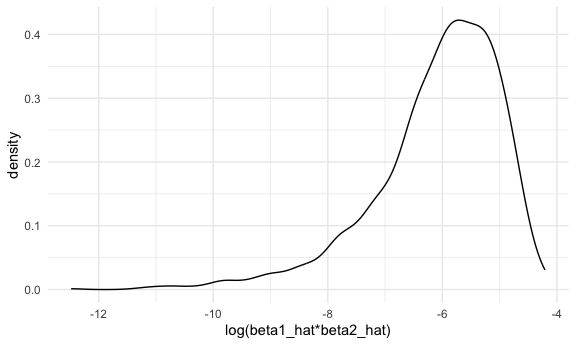
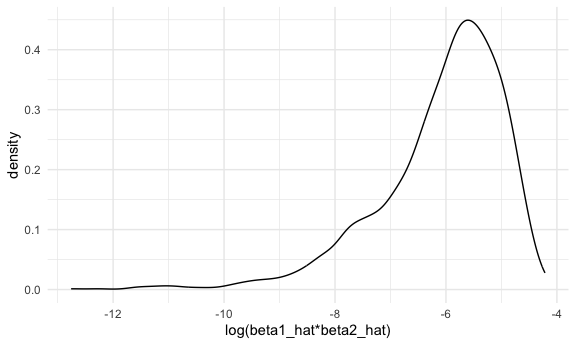
problem 3: fit my model based on my hypothesis and a simple data-driven model-building process.

diff --git a/p8105_hw6_sp4170.md b/p8105_hw6_sp4170.md
@@ -87,6 +87,32 @@ boot_result_para =
     ## Caused by warning in `log()`:
     ## ! NaNs produced
 
+``` r
+# or this method????
+
+boot_result_para =
+  bootstrap(weather_df, 5000, id = "strap_number") |> 
+  mutate(
+    model = map(strap, \(df) lm(tmax ~ tmin + prcp, data = df)),
+    result_para = map(model, broom::tidy)
+  ) |> 
+  select(strap_number, result_para) |> 
+  unnest(result_para) |> 
+  select(strap_number, term, estimate) |> 
+  pivot_wider(
+    names_from = term,
+    values_from = estimate
+  ) |> 
+  mutate(
+    log_b1b2 = log(tmin * prcp)
+  )
+```
+
+    ## Warning: There was 1 warning in `mutate()`.
+    ## ℹ In argument: `log_b1b2 = log(tmin * prcp)`.
+    ## Caused by warning in `log()`:
+    ## ! NaNs produced
+
 ### draw a density plot for log(beta1_hat\*beta2_hat) distribution
 
 ``` r
@@ -95,7 +121,7 @@ boot_result_para |>
   labs(x = "log(beta1_hat*beta2_hat)")
 ```
 
-    ## Warning: Removed 3361 rows containing non-finite values (`stat_density()`).
+    ## Warning: Removed 3304 rows containing non-finite values (`stat_density()`).
 
 <img src="p8105_hw6_sp4170_files/figure-gfm/unnamed-chunk-5-1.png" width="90%" />
 descriptions:
@@ -109,6 +135,8 @@ descriptions:
   negative, so we cannot calculate the log of them. in this case, this
   part of data is removed when we draw the density plot for estimated
   log(beta1_hat x beta2_hat).
+  - for more details, 1696 out of 5000 rows are used when drawing the
+    plot.
 
 ### calculate 95%CI for r^2 estimates
 
@@ -125,7 +153,7 @@ boot_result_para |>
 
 - based on the output, we can tell the 95% confidence interval for
   log(beta1_hat x beta2_hat), which i use 2.5% and 97.5% quantiles to
-  get, is from -8.9815594 to -4.6016727
+  get, is from -8.8847595 to -4.6039854
 
 ## question 2: r^2
 
@@ -178,3 +206,161 @@ boot_result_r2 |>
 - based on the output, we can tell the 95% confidence interval for r^2,
   which i use 2.5% and 97.5% quantiles to get, is from 0.8885495 to
   0.9406812
+- since the 95%CI is not wide and with relatively large value, we might
+  say the model can make good prediction when we do bootstrap to infer
+  r^2
+
+# Problem 3
+
+## data import, clean, and mutate
+
+``` r
+bw_df = 
+  read_csv("data/birthweight.csv") |> 
+  janitor::clean_names() |> 
+  mutate(
+    babysex = factor(babysex, levels = c(1,2), labels = c("male", "female")),
+    malform = case_when(malform == 0 ~ "absent", malform == 1 ~ "present"),
+    mrace = factor(mrace, levels = c(1,2,3,4,8), labels = c("White", "Black", "Asian", "Puerto Rican", "Other")),
+    frace = factor(frace, levels = c(1,2,3,4,8,9), labels = c("White", "Black", "Asian", "Puerto Rican", "Other", "Unknow"))
+  ) |> 
+  drop_na(bwt)
+```
+
+    ## Rows: 4342 Columns: 20
+    ## ── Column specification ────────────────────────────────────────────────────────
+    ## Delimiter: ","
+    ## dbl (20): babysex, bhead, blength, bwt, delwt, fincome, frace, gaweeks, malf...
+    ## 
+    ## ℹ Use `spec()` to retrieve the full column specification for this data.
+    ## ℹ Specify the column types or set `show_col_types = FALSE` to quiet this message.
+
+``` r
+colSums(is.na(bw_df))
+```
+
+    ##  babysex    bhead  blength      bwt    delwt  fincome    frace  gaweeks 
+    ##        0        0        0        0        0        0        0        0 
+    ##  malform menarche  mheight   momage    mrace   parity  pnumlbw  pnumsga 
+    ##        0        0        0        0        0        0        0        0 
+    ##    ppbmi     ppwt   smoken   wtgain 
+    ##        0        0        0        0
+
+- i import the data, clean the names, and mutate my interested columns
+  for further steps. I drop NULL in bwt column as this is our response
+  variable. then, i check the missing value in other columns, and find
+  that there are no missing data.
+
+## fit my model
+
+- step 1
+  - from my opinion, i suppose the main effect of (1) presence of
+    malformations that could affect weight (malform), (2) mother’s race
+    (mrace), (3) father’s race (frace), (4) average number of cigarettes
+    smoked per day during pregnancy (smoken), and (5) gestational age in
+    weeks (gaweeks), will affect the baby’s birth weight. therefore, i
+    fit a mixed linear regression model `fit`
+  - but i find that the r^2 is pretty low, so i decide to add a new
+    covariant.
+- step 2
+  - i decide to add one more covariant (6) baby’s length at birth
+    (blength) into the model `fit`
+  - r^2 greatly increase, so i decide to keep variable `blength` into my
+    mode.
+- step 3
+  - based on step 2 parameter estimates output, i find that the variable
+    `malform` is not significant. so, i remove it from the model, and
+    find that the r^2 does not change. To keep my model less complex, i
+    decide to remove the variable `malform`, and here it comes my final
+    model: `bwt ~ mrace + frace + smoken + gaweeks + blength`
+
+``` r
+fit = lm(bwt ~ malform + mrace + frace + smoken + gaweeks, data = bw_df)
+
+broom::tidy(fit) |> knitr::kable()
+```
+
+| term              |   estimate |   std.error |   statistic |   p.value |
+|:------------------|-----------:|------------:|------------:|----------:|
+| (Intercept)       |  946.73658 |  88.1469618 |  10.7404335 | 0.0000000 |
+| malformpresent    |   10.84055 | 115.3598051 |   0.0939716 | 0.9251361 |
+| mraceBlack        | -239.04844 |  75.1246311 |  -3.1820247 | 0.0014728 |
+| mraceAsian        | -164.06515 | 117.0980037 |  -1.4010927 | 0.1612580 |
+| mracePuerto Rican | -142.99483 |  73.3359175 |  -1.9498608 | 0.0512572 |
+| fraceBlack        |  -48.32241 |  75.1805885 |  -0.6427512 | 0.5204196 |
+| fraceAsian        |  -14.48946 | 113.2159189 |  -0.1279807 | 0.8981702 |
+| fracePuerto Rican |  -53.74218 |  72.9345023 |  -0.7368554 | 0.4612502 |
+| fraceOther        |  -11.34893 | 120.9308651 |  -0.0938464 | 0.9252355 |
+| smoken            |  -10.91868 |   0.9463709 | -11.5374233 | 0.0000000 |
+| gaweeks           |   59.65934 |   2.1830308 |  27.3286770 | 0.0000000 |
+
+``` r
+broom::glance(fit)
+```
+
+    ## # A tibble: 1 × 12
+    ##   r.squared adj.r.squared sigma statistic   p.value    df  logLik    AIC    BIC
+    ##       <dbl>         <dbl> <dbl>     <dbl>     <dbl> <dbl>   <dbl>  <dbl>  <dbl>
+    ## 1     0.245         0.243  446.      140. 4.25e-255    10 -32639. 65303. 65379.
+    ## # ℹ 3 more variables: deviance <dbl>, df.residual <int>, nobs <int>
+
+``` r
+fit = lm(bwt ~ malform + mrace + frace + smoken + gaweeks + blength, data = bw_df)
+
+broom::tidy(fit) |> knitr::kable()
+```
+
+| term              |     estimate |  std.error |   statistic |   p.value |
+|:------------------|-------------:|-----------:|------------:|----------:|
+| (Intercept)       | -3842.222462 | 99.8225217 | -38.4905370 | 0.0000000 |
+| malformpresent    |    54.585220 | 83.6757615 |   0.6523421 | 0.5142151 |
+| mraceBlack        |  -186.901616 | 54.4958286 |  -3.4296500 | 0.0006100 |
+| mraceAsian        |  -119.565412 | 84.9365696 |  -1.4077024 | 0.1592910 |
+| mracePuerto Rican |   -57.606838 | 53.2096036 |  -1.0826399 | 0.2790286 |
+| fraceBlack        |    11.862106 | 54.5385320 |   0.2174995 | 0.8278293 |
+| fraceAsian        |    -3.506574 | 82.1180150 |  -0.0427016 | 0.9659413 |
+| fracePuerto Rican |   -66.872812 | 52.9013072 |  -1.2641051 | 0.2062604 |
+| fraceOther        |    26.847919 | 87.7157665 |   0.3060786 | 0.7595595 |
+| smoken            |    -5.611541 |  0.6916596 |  -8.1131540 | 0.0000000 |
+| gaweeks           |    24.337853 |  1.6813226 |  14.4754208 | 0.0000000 |
+| blength           |   122.717751 |  1.9644437 |  62.4694680 | 0.0000000 |
+
+``` r
+broom::glance(fit)
+```
+
+    ## # A tibble: 1 × 12
+    ##   r.squared adj.r.squared sigma statistic p.value    df  logLik    AIC    BIC
+    ##       <dbl>         <dbl> <dbl>     <dbl>   <dbl> <dbl>   <dbl>  <dbl>  <dbl>
+    ## 1     0.603         0.602  323.      597.       0    11 -31245. 62515. 62598.
+    ## # ℹ 3 more variables: deviance <dbl>, df.residual <int>, nobs <int>
+
+``` r
+fit = lm(bwt ~ mrace + frace + smoken + gaweeks + blength, data = bw_df)
+
+broom::tidy(fit) |> knitr::kable()
+```
+
+| term              |     estimate |  std.error |   statistic |   p.value |
+|:------------------|-------------:|-----------:|------------:|----------:|
+| (Intercept)       | -3841.183031 | 99.8031845 | -38.4875798 | 0.0000000 |
+| mraceBlack        |  -186.900057 | 54.4922144 |  -3.4298488 | 0.0006096 |
+| mraceAsian        |  -119.628972 | 84.9308807 |  -1.4085451 | 0.1590415 |
+| mracePuerto Rican |   -57.739499 | 53.2056862 |  -1.0852129 | 0.2778878 |
+| fraceBlack        |    11.714524 | 54.5344458 |   0.2148096 | 0.8299259 |
+| fraceAsian        |    -3.684928 | 82.1121138 |  -0.0448768 | 0.9642076 |
+| fracePuerto Rican |   -67.008632 | 52.8973891 |  -1.2667663 | 0.2053070 |
+| fraceOther        |    26.545731 | 87.7087261 |   0.3026578 | 0.7621652 |
+| smoken            |    -5.600023 |  0.6913883 |  -8.0996780 | 0.0000000 |
+| gaweeks           |    24.330697 |  1.6811753 |  14.4724327 | 0.0000000 |
+| blength           |   122.707026 |  1.9642446 |  62.4703393 | 0.0000000 |
+
+``` r
+broom::glance(fit)
+```
+
+    ## # A tibble: 1 × 12
+    ##   r.squared adj.r.squared sigma statistic p.value    df  logLik    AIC    BIC
+    ##       <dbl>         <dbl> <dbl>     <dbl>   <dbl> <dbl>   <dbl>  <dbl>  <dbl>
+    ## 1     0.603         0.602  323.      657.       0    10 -31245. 62514. 62590.
+    ## # ℹ 3 more variables: deviance <dbl>, df.residual <int>, nobs <int>
